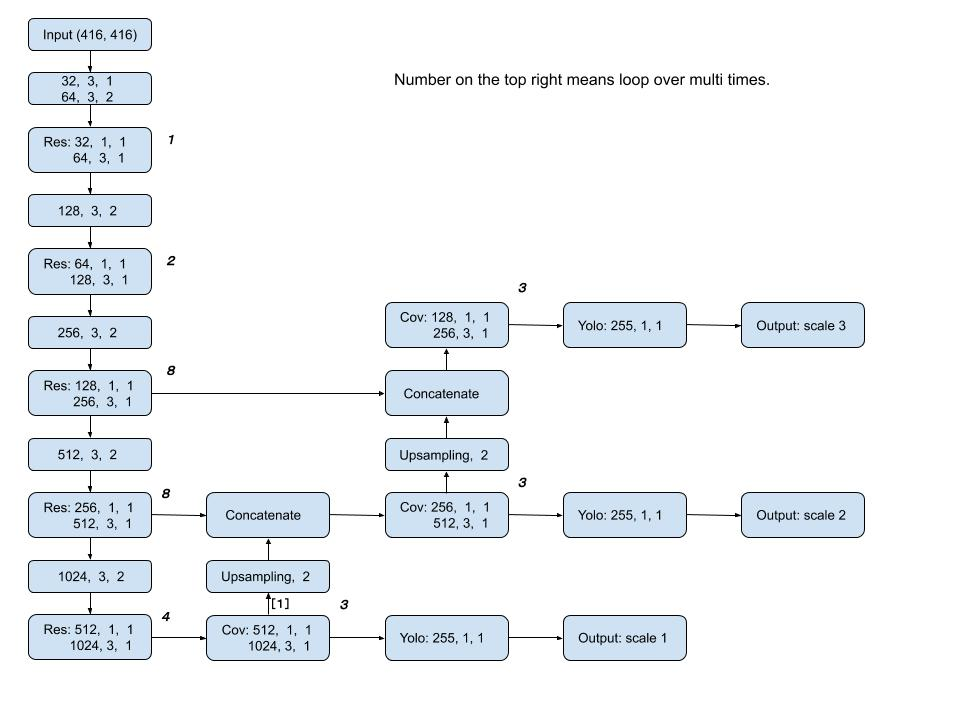
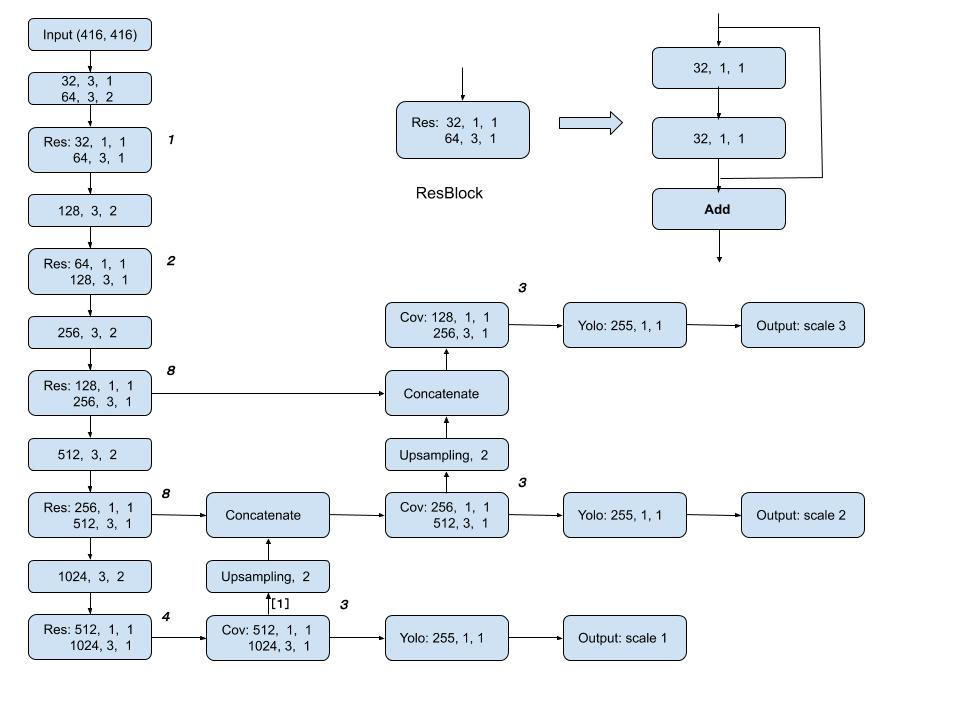
clean up

Changed region(s): [[0.4062, 0.0611, 0.8438, 0.3361]]

diff --git a/README.md b/README.md
@@ -6,10 +6,9 @@ Below is the overall architecture of yolov3.
 
 ![model](https://github.com/godelscat/YOLOv3/blob/master/arch/yolov3.jpg)
 
-Every conv block except the final yolo output, including a conv layer, batchnormalization layer and a leaky relu layer. The ResBlock is: 
+Every conv block except the final yolo output, including a conv layer, batchnormalization layer and a leaky relu layer.
 
-![res](https://github.com/godelscat/YOLOv3/blob/master/arch/res.jpg)
 
-In darknet cfg settings, when upsampling conv layer, we need to upsample the layer with route = -4, which is an intermediate layer in the conv block. Specifically, 
+[1] In darknet cfg settings, when upsampling conv layer, we need to upsample the layer with route = -4, which is an intermediate layer in the conv block. Specifically, 
 
 ![upsampling](https://github.com/godelscat/YOLOv3/blob/master/arch/upsampling.jpg)
